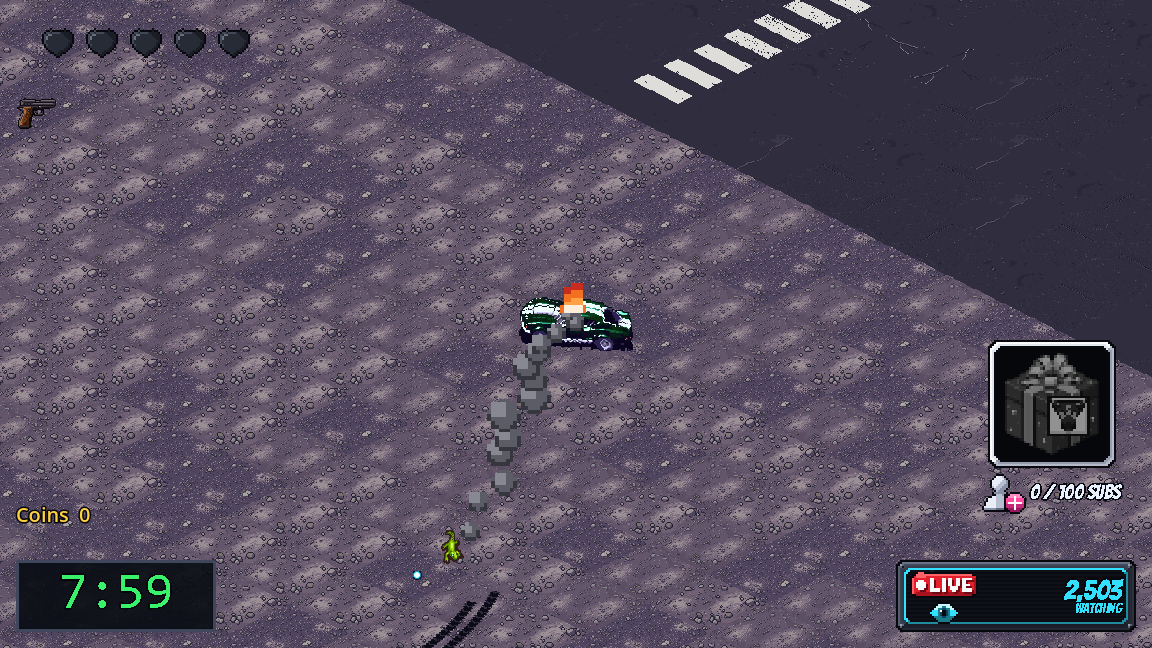
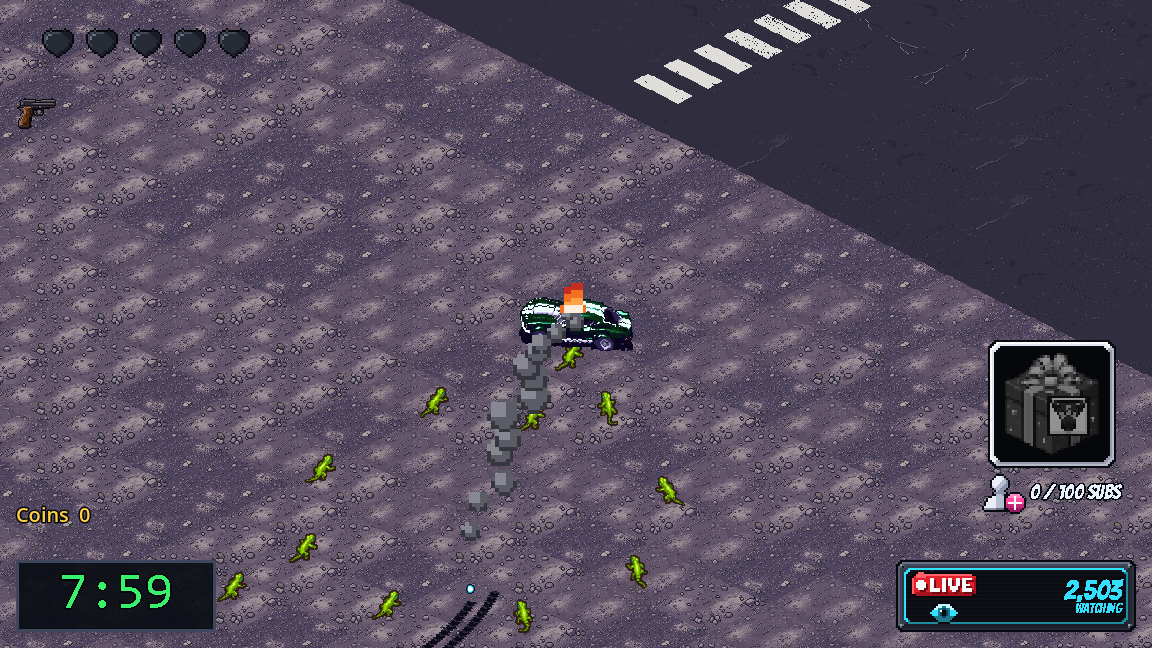
T-360: quick tuning: the enemies swarm the wreck, with no interaction

diff --git a/game/docs/game-loop/the-run.md b/game/docs/game-loop/the-run.md
@@ -165,5 +165,6 @@ Game loop architecture, Decisions, "Wrecked: the stream keeps rolling"; Content,
 - The seconds: `run.json`'s `wreck.seconds` (3, the board's number), read at `start_run()` into `wreck_seconds` (`RunData.wreck_seconds()`). Tests may set `wreck_seconds` to 0: the run then ends at once, as before T-360. Tests that end a run on health call `state.advance(state.wreck_seconds)` after the last heart.
 - The car (`scripts/driving/car.gd`, Driving & Drift's): `input_enabled` (true by default). `run.gd` sets it false on `wreck_started`, so every step runs as if no key were held: the car keeps its velocity and coasts with its normal physics (it can still slide, bounce off walls, land), and the camera keeps following it. A new run builds a new car with it on.
 - The smoke and flames: `scripts/run/wreck_effect.gd`, child `WreckEffect` of the run's `View`, above the car sprite. `run.gd` calls `start(car_sprite.position)` on `wreck_started`, `follow(car_sprite.position)` after every car step (so the flames ride on the car and new puffs come off it; old puffs stay where they were left, rising) and `stop()` on a new run. It ages in `_process`, so pause freezes it. Placeholders drawn in code: smoke puffs in three greys that grow then shrink, and flickering flame tongues in red, orange, light orange and a white-hot core, opaque pixel squares, none of Greenbull's colours. Its numbers are `run.json`'s `wreck` section (`configure(RunData.wreck())`: puffs per second, life, rise and drift speed, radius, flame tongues, height, flickers per second, pixel size). **The art swap (T-361):** set `smoke_frames` and `flame_frames` (SpriteFrames, animation "default"): a puff draws the smoke frame for its age (first at birth, last at the end of its life), and the flames loop the flame frames at the animation's speed; the placeholder drawing is used only while they are null.
-- During the wreck the enemies, weapons, gift drops and pickups stand still (they already stop when `is_running()` is false), the engine sound stops (as at any end), and the HUD stays on screen as it was at the last heart (Game loop architecture, Content, "Wrecked", the proposals).
+- During the wreck the weapons, the meteors, gift drops and pickups stand still (they stop when `is_running()` is false), the engine sound stops (as at any end), and the HUD stays on screen as it was at the last heart (Game loop architecture, Content, "Wrecked", the proposals).
+- **The enemies swarm the wreck** (the board's quick tuning, 2026-10-29): `MinionSpawner.step()` and `KaijuBoss.step()` check `state.is_wrecked()`. During the wreck the minion spawner still prunes, spawns and walks the minions to the car, but calls `move_step(dt, false)`, which skips `contact_step()` (no damage, no knockback); a kaiju already there walks to the car (`_walk_to_car()`) with no `contact_step()` and no arrival. Nothing dies (the weapons don't fire), so no coins, likes or kills. After `run_ended` they stand still as before. Tests: `test_minions_swarm_the_wreck_without_touching_it` (`tests/unit/enemies/test_minions.gd`) and `test_the_kaiju_swarms_the_wreck_without_touching_it` (`tests/unit/enemies/test_kaiju.gd`); their "nothing moves after the run ends" tests now step past the wreck first.
 - Tests: `tests/unit/run/test_wreck.gd` (3 s from the data, the result and `run_ended` after it, the clock stopped, nothing counting, a kaiju kill and the time's up unchanged, pause, a new run, dead controls coasting exactly like no keys held, live controls unchanged, the effect's puffs, flames and colours, the art swap, the whole wreck in the run scene). Screenshot and GIF: `bash game/tools/record_wreck.sh [out_dir]` with the fixture `tests/fixtures/wreck_demo.tscn` (a run from the main menu, driven into a drift, then the last heart); result in `art-archive/T-360/screenshots/`.

diff --git a/docs/game-loop-architecture.md b/docs/game-loop-architecture.md
@@ -153,7 +153,8 @@ When the car loses its last heart (Decisions, "Wrecked: the stream keeps rolling
 - **The controls go dead.** No steering, throttle or brake reaches the car. It keeps the movement it had and slows to a stop with its normal physics: it can still slide, spin, bounce off walls or land a jump. The camera keeps following it. Its handling while alive is unchanged.
 - **Smoke and flames** come out of the car for the 3 seconds: placeholders drawn in code (grey pixel puffs that rise, grow and shrink, left behind as the car slides, and flickering flames on the car in red, orange and a white-hot core, none of Greenbull's colours) until T-361's pixel art animations replace them.
 - **Pause** still works: it freezes the wreck, and the 3 seconds carry on when the game resumes.
-- **Proposals for the playtest** (the board's questions left open, settled by the Game Loop Agent; T-360): the **HUD stays on screen** as it was at the last heart (the hearts empty, the coins, the viewers counter and the sub goal) so the stream still feels live; the **clock stops** at the moment the last heart goes (that is the time survived the recap shows); the **enemies, the kaiju and its meteors, the weapons and the gift pack helicopter stand still**, as they do at any end of the run today, so nothing hits the wreck; the engine sound stops. Letting the enemies carry on (swarming the wreck) would need a small change in the enemies' code (Enemy Behavior), if the board prefers it after playing.
+- **Proposals for the playtest** (the board's questions left open, settled by the Game Loop Agent; T-360): the **HUD stays on screen** as it was at the last heart (the hearts empty, the coins, the viewers counter and the sub goal) so the stream still feels live; the **clock stops** at the moment the last heart goes (that is the time survived the recap shows); the weapons, the kaiju's meteors and the gift pack helicopter stand still, as they do at any end of the run; the engine sound stops.
+- **The enemies swarm the wreck** (board, quick tuning, 2026-10-29: "I don't want the monsters to stop moving when I die, when the car gets destroyed. I want them to keep coming and swarming the car. But with no like interaction or anything, they just come and swarm over the car."): during the 3 seconds the minions keep coming (they still spawn) and walk to the wrecked car as they normally would, and a kaiju already there keeps walking to it too, but nothing interacts: no damage or knockback to the car, no damage to them (the weapons don't fire), and no likes, coins or kills. Once the run has ended they stand still. (Replaces the first proposal, that they freeze.)
 
 ### Screen flow
 
